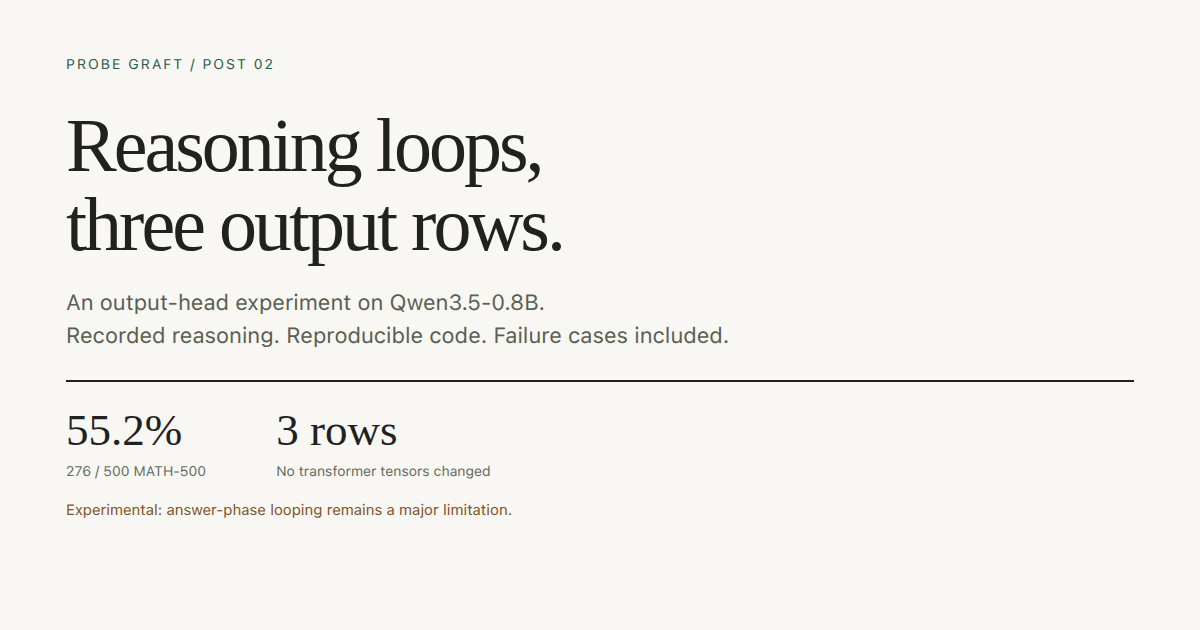
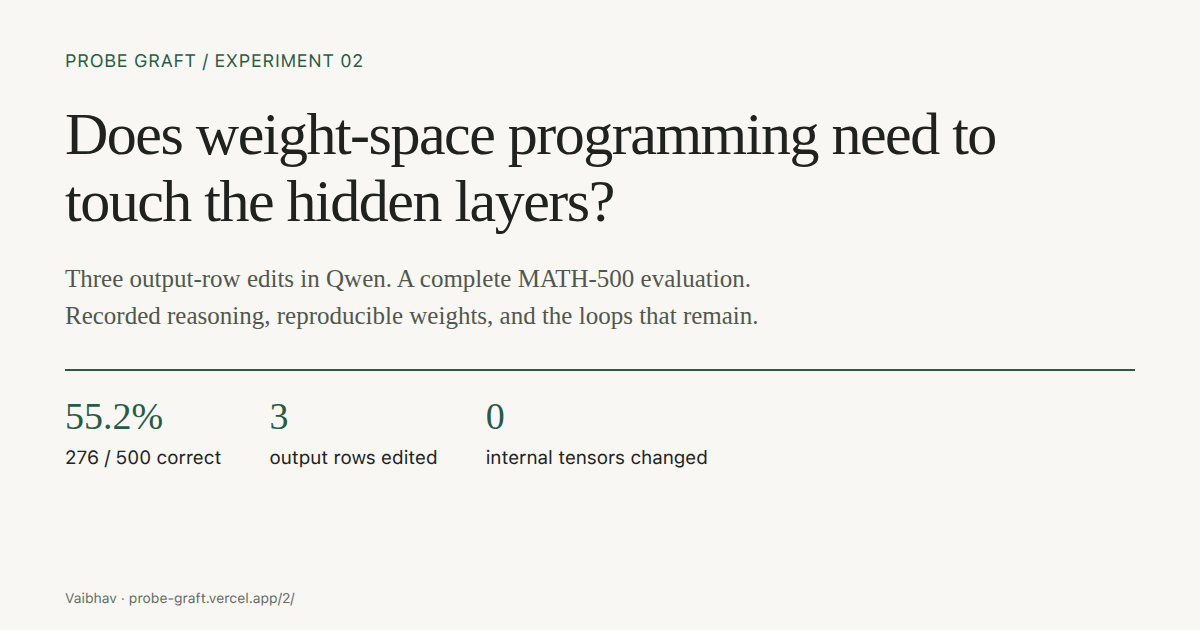
Frame output-head study around weight-space programming question

diff --git a/blog/2/index.html b/blog/2/index.html
@@ -3,13 +3,13 @@
 <head>
 <meta charset="utf-8">
 <meta name="viewport" content="width=device-width,initial-scale=1">
-<title>Reasoning loops, three output rows — Probe graft, post 2</title>
-<meta name="description" content="An output-head-only edit reaches 55.2% on all 500 MATH-500 problems. A small linear probe, a full benchmark, and a failure that the small tests hid.">
+<title>Does weight-space programming need to touch the hidden layers?</title>
+<meta name="description" content="A follow-up to the Astra and linear-program experiments: edit three output rows in Qwen, test all 500 MATH-500 questions, and inspect what still breaks.">
 <link rel="canonical" href="https://probe-graft.vercel.app/2/">
-<meta property="og:title" content="Reasoning loops, three output rows">
-<meta property="og:description" content="A simple output-head edit, 500 math problems, recorded reasoning and reproducible artifacts. Includes the failure cases.">
+<meta property="og:title" content="Does weight-space programming need to touch the hidden layers?">
+<meta property="og:description" content="Three output rows. 55.2% on MATH-500. A simpler place to intervene—and a failure that ending thinking does not fix.">
 <meta property="og:type" content="article">
-<meta property="og:image" content="https://probe-graft.vercel.app/2/preview.png">
+<meta property="og:image" content="https://probe-graft.vercel.app/2/preview.png?v=2">
 <meta name="twitter:card" content="summary_large_image">
 <link rel="icon" href="/favicon.svg" type="image/svg+xml">
 <link rel="stylesheet" href="/2/style.css">
@@ -22,8 +22,8 @@
 <nav aria-label="Posts"><a class="brand" href="/">Probe graft</a><span>Post 02</span><a href="/">Read post 01 ↗</a></nav>
 <header>
 <p class="eyebrow">An output-head experiment · 17 November 2026</p>
-<h1>Reasoning loops,<br>three output rows.</h1>
-<p class="lede">I wanted to reduce reasoning loops without changing the transformer’s internal layers. A small classifier built into three output rows reached 55.2% on MATH-500. The full run also exposed a failure that the small tests had missed.</p>
+<h1>Does weight-space programming need to touch the hidden layers?</h1>
+<p class="lede">I tried leaving Qwen’s internal layers alone and editing only three rows that score its next token. The model reached 55.2% on MATH-500. Then I looked at the runs that still would not stop.</p>
 <div class="byline"><span>Vaibhav</span><a href="https://github.com/nextgen-user/think-graft/tree/main/qwen08">Code &amp; raw outputs</a><a href="https://huggingface.co/vaibhavrpi/Qwen3.5-0.8B-probe-graft-GGUF">Experimental GGUF</a></div>
 </header>
 
@@ -32,12 +32,15 @@
 <div><span class="metric">3</span><span class="metric-label">output rows changed</span></div>
 <div><span class="metric">0</span><span class="metric-label">transformer tensors changed</span></div>
 </section>
-<p class="opening">The useful simplification is <em>where</em> to edit. A reasoning model already has a token for ending its scratchpad: <code>&lt;/think&gt;</code>. Instead of searching for internal layers to change, I fit a small classifier to its final hidden state and build that classifier into a few output-layer weights. Inference then uses an ordinary weights file.</p>
-<aside class="finding"><strong>The limit matters.</strong> This prototype is not a robust loop fix: 165 of 500 runs reached the token limit. In 163, thinking had already closed and the output kept going. Repeated closing tags are a substantial failure, not removed from the results. <a href="#limits">See the audit.</a></aside>
+<p class="opening">In <a href="https://rikiyat.github.io/blog/weight-space-programming/">Sparks of Weight-Space Programming</a>, Astra improved Qwen3.5-0.8B by editing two internal feed-forward layers. <a href="https://nathan.rs/posts/weight-space-lp/">Nathan’s follow-up</a> showed how a linear program could find a related edit. My experiment asks a narrower question: how much of the result can we recover at the model’s final output layer?</p>
+<p>A reasoning model already has a token for ending its scratchpad: <code>&lt;/think&gt;</code>. I fitted small linear classifiers to the model’s final hidden state, then folded their weights into the rows for that token and two spellings of <code>Wait</code>. This changes when it stops or says “Wait” while preserving every original transformer tensor. The edited weights run without a separate classifier at inference time.</p>
+<p>On the full 500-question benchmark, this candidate scored <strong>55.2%</strong>, alongside <strong>52.2%</strong> for the selected published Astra-edited reference run. The runs use different engines, so this is evidence worth investigating—not proof of a better method. The more surprising result was where the remaining loops went.</p>
+<div class="article-links"><a href="#results">Compare all 500 questions ↓</a><a href="#replay">Replay successes and failures ↓</a></div>
+<aside class="finding"><strong>Ending thinking did not always end the loop.</strong> 165 of 500 runs reached the token limit. In 163, thinking had already closed and the output kept going. Repeated closing tags are a substantial failure, not removed from the results. <a href="#limits">See the audit.</a></aside>
 
 <section id="results">
 <div class="section-label"><span>01</span> The complete math result</div>
-<h2>A different intervention, comparable observed accuracy.</h2>
+<h2>Three output rows. 500 math questions.</h2>
 <p>All rows below cover the same 500 MATH-500 questions. Each uses one selected answer per question. The references come from external runs; this is a benchmark comparison, not a controlled same-engine experiment.</p>
 <div class="table-scroll"><table class="results"><caption>MATH-500 · thinking enabled · 32,768-token limit</caption><thead><tr><th scope="col">Model</th><th scope="col">Correct</th><th scope="col">Accuracy</th><th scope="col">Direct weight change</th></tr></thead><tbody>
 <tr><th scope="row">Unedited Qwen3.5-0.8B<sup>a</sup></th><td>35 / 500</td><td>7.0%</td><td>None</td></tr>
@@ -96,7 +99,7 @@
 <h2>Same problem. A different place to intervene.</h2>
 <p><a href="https://rikiyat.github.io/blog/weight-space-programming/">RikiyaT’s Astra experiment</a> removes a loop-associated direction from two internal feed-forward matrices. <a href="https://nathan.rs/posts/weight-space-lp/">Nathan’s LP follow-up</a> finds a related sparse internal edit. Here, the transformer computation is kept intact and the final token scores are edited directly.</p>
 <p>Both families use activations and can be state-dependent. “His is constant; ours is conditional” would be too broad: Nathan measured a near-constant effect for a particular LP edit. An ordinary checkpoint with no runtime hook is also a feature of his method, not unique to this one.</p>
-<p>The practical advantage I’m testing is a more mechanical recipe: record final states, fit a classifier, write a few output rows. Comparable accuracy from that recipe is interesting even without a higher headline score.</p>
+<p>The practical advantage I’m testing is a more mechanical recipe: record final states, fit a classifier, write a few known output rows. There is no search over which internal layers to alter. The similar observed scores make that recipe worth testing further; fewer edited weights alone do not guarantee fewer side effects.</p>
 <details><summary>Earlier 4B, DeepSeek and agent observations</summary><div class="detail-body"><p>The earlier single-row method was tested separately on Qwen3.5-4B and DeepSeek V4.1 Flash. On eight paired 4B math questions, both models got 8/8 while total tokens fell 54%. DeepSeek’s six shared solved questions used about 40% fewer total tokens. Agent examples showed selective thinking around planning, errors and new information.</p><p>Those are small exploratory studies with configuration caveats, not proof of universal transfer. Our local DeepSeek internal-layer interventions failed to shorten reasoning, but they were not a controlled reproduction of RikiyaT’s exact method. I cannot conclude his method fails on DeepSeek.</p><p>The algebra does not depend on a particular model size. Useful signals, calibration and quality do. Each model needs its own fit. <a href="/">Read the original experiments and limitations.</a></p></div></details>
 <p class="small">Related work already includes <a href="https://arxiv.org/abs/2504.05419">probe-guided stopping</a>, <a href="https://arxiv.org/abs/2506.08390">activation directions controlling reasoning length</a>, and <a href="https://arxiv.org/abs/2506.08343">NoWait token suppression</a>. The contribution here is an output-weight implementation and its measurements, not the invention of early stopping.</p>
 </section>

diff --git a/blog/index.html b/blog/index.html
@@ -98,7 +98,7 @@ figcaption b{color:var(--fg)}
 <p class="sub">A linear probe folded into the <code>&lt;/think&gt;</code> row lets the model's own hidden state decide when its thinking is done. Tested on Qwen3.5-4B and on DeepSeek V4.1 Flash (763B, running on a laptop).</p>
 <div class="byline"><span>Vaibhav</span><span>15 November 2026</span><span><a href="https://github.com/nextgen-user/think-graft">Code &amp; logs</a></span><span><a href="https://huggingface.co/vaibhavrpi/Qwen3.5-4B-think-graft-GGUF">Edited Qwen3.5-4B GGUF</a></span></div>
 
-<aside class="callout" id="post-2"><b>Post 02 · 17 November 2026:</b> <a href="/2/">A three-row output-head experiment on all 500 MATH-500 problems</a>: 55.2% versus 52.2% for the selected external reference sample. It also exposes substantial answer-phase looping and repeated closing tags. The new post includes recorded traces, reproduction code and the experimental 0.8B model.<br><small>Clarification: the fixed-state logit relationship below is exact. With top-k/top-p sampling it does not establish exact replay of complete edited trajectories. The new benchmark was generated live. Cross-model results here are exploratory, not a guarantee at every model size.</small></aside>
+<aside class="callout" id="post-2"><b>Post 02 · 17 November 2026:</b> <a href="/2/">Does weight-space programming need to touch the hidden layers?</a>: 55.2% versus 52.2% for the selected external reference sample. It also exposes substantial answer-phase looping and repeated closing tags. The new post includes recorded traces, reproduction code and the experimental 0.8B model.<br><small>Clarification: the fixed-state logit relationship below is exact. With top-k/top-p sampling it does not establish exact replay of complete edited trajectories. The new benchmark was generated live. Cross-model results here are exploratory, not a guarantee at every model size.</small></aside>
 <div class="tldr">
 <b class="t">TL;DR</b>
 <ul>

diff --git a/blog/2/style.css b/blog/2/style.css
@@ -5,3 +5,6 @@
 @media(prefers-reduced-motion:reduce){html{scroll-behavior:auto}}
 
 .mobile-diagram{display:none}@media(max-width:560px){.mechanism{overflow:visible}.mechanism .desktop-diagram{display:none}.mechanism .mobile-diagram{display:block;min-width:0}.results tr>*:nth-child(4){display:none}.trace-panel pre{height:190px}}
+
+/* Keep the question readable without overwhelming the opening. */
+main>header h1{font-size:clamp(40px,6vw,64px);line-height:1.08;text-wrap:balance}.article-links{display:flex;flex-wrap:wrap;gap:10px 24px;margin:22px 0;font:600 13px/1.5 system-ui,sans-serif}@media(max-width:560px){main>header h1{font-size:43px}.article-links{flex-direction:column}}

diff --git a/scripts/render_post_preview.py b/scripts/render_post_preview.py
@@ -1,0 +1,14 @@
+"""Render the article's share card from its current headline."""
+import asyncio, html, os, pathlib
+from playwright.async_api import async_playwright
+ROOT=pathlib.Path(__file__).resolve().parents[1]
+async def main():
+    async with async_playwright() as p:
+        browser=await p.chromium.launch(executable_path=os.environ.get('CHROMIUM'),args=['--disable-gpu','--no-sandbox'])
+        page=await browser.new_page(viewport={'width':1200,'height':630},device_scale_factor=1)
+        await page.goto('http://127.0.0.1:8765/2/',wait_until='domcontentloaded')
+        title=html.escape(await page.locator('h1').inner_text())
+        await page.set_content('''<html><style>*{box-sizing:border-box}body{margin:0;background:#f8f7f3;color:#20221f;padding:50px 65px;font:22px system-ui}.top{color:#285b46;font-size:18px;letter-spacing:.04em}h1{font:60px/1.12 Georgia;letter-spacing:-.025em;max-width:1060px;margin:30px 0 26px}.sub{font:25px/1.45 Georgia;max-width:1000px;color:#51574e}.bottom{border-top:2px solid #285b46;margin-top:35px;padding-top:23px;display:flex;gap:48px;font-size:19px}.bottom b{display:block;font:38px Georgia;color:#285b46;margin-bottom:8px}.foot{position:absolute;bottom:24px;font-size:14px;color:#656b62}</style><body><div class="top">PROBE GRAFT / EXPERIMENT 02</div><h1>'''+title+'''</h1><div class="sub">Three output-row edits in Qwen. A complete MATH-500 evaluation.<br>Recorded reasoning, reproducible weights, and the loops that remain.</div><div class="bottom"><div><b>55.2%</b>276 / 500 correct</div><div><b>3</b>output rows edited</div><div><b>0</b>internal tensors changed</div></div><div class="foot">Vaibhav · probe-graft.vercel.app/2/</div></body></html>''')
+        await page.screenshot(path=str(ROOT/'blog/2/preview.png'))
+        await browser.close()
+asyncio.run(main())

diff --git a/scripts/check_post.py b/scripts/check_post.py
@@ -13,7 +13,7 @@ async def main():
             page.on('pageerror',lambda error:errors.append(str(error)))
             response=await page.goto(BASE+'/2/',wait_until='networkidle');assert response.status==200
             await page.locator('#play').wait_for(state='visible');await page.wait_for_function('document.querySelector("#play").disabled === false')
-            assert await page.locator('h1').inner_text()=='Reasoning loops,\nthree output rows.'
+            assert await page.locator('h1').inner_text()=='Does weight-space programming need to touch the hidden layers?'
             assert await page.evaluate('document.documentElement.scrollWidth<=innerWidth')
             await page.locator('#play').click();await page.wait_for_timeout(500)
             assert await page.locator('#ours-text').inner_text()
